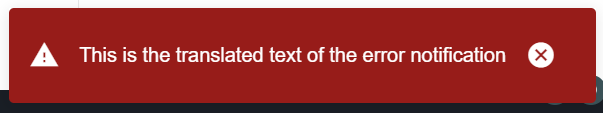
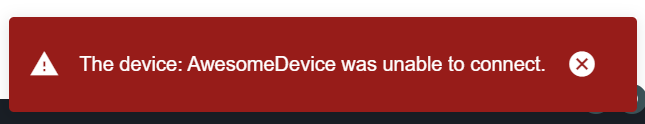
documentation

Changed region(s): [[0.0, 0.0531, 1.0, 0.9292], [0.0299, 0.3717, 0.9254, 0.6372], [0.0, 0.7965, 0.0299, 0.823]]

diff --git a/docs/source/dialogs_notifications.rst b/docs/source/dialogs_notifications.rst
@@ -117,12 +117,12 @@ In this situation, "title" is a variable that represents the title of the notifi
 
 	{
 		"TRANSLATED_TEXT_ID": {
-			"message": "This is the text of your {title}",
+			"message": "The title of your workspace is: {title}",
 			"description": "Text of the notification the user created."
 		}
 	}
 
-*title* will be *notification*.
+*title* will be the actual name of your workspace, in this example: *Workspace Title*.
 
 |
 
@@ -138,9 +138,9 @@ Similar to *showNotification*, "title" is a variable that represents the title o
 
 	{
 		"TRANSLATED_TEXT_ID": {
-			"message": "This is the text of your {title}",
+			"message": "The device: {title} was unable to connect.",
 			"description": "Text of the notification the user created."
 		}
 	}
 
-*title* will be *error notification*.
+*title* will be the name of the device  you are trying to connect, in this example: *AwesomeDevice*.
